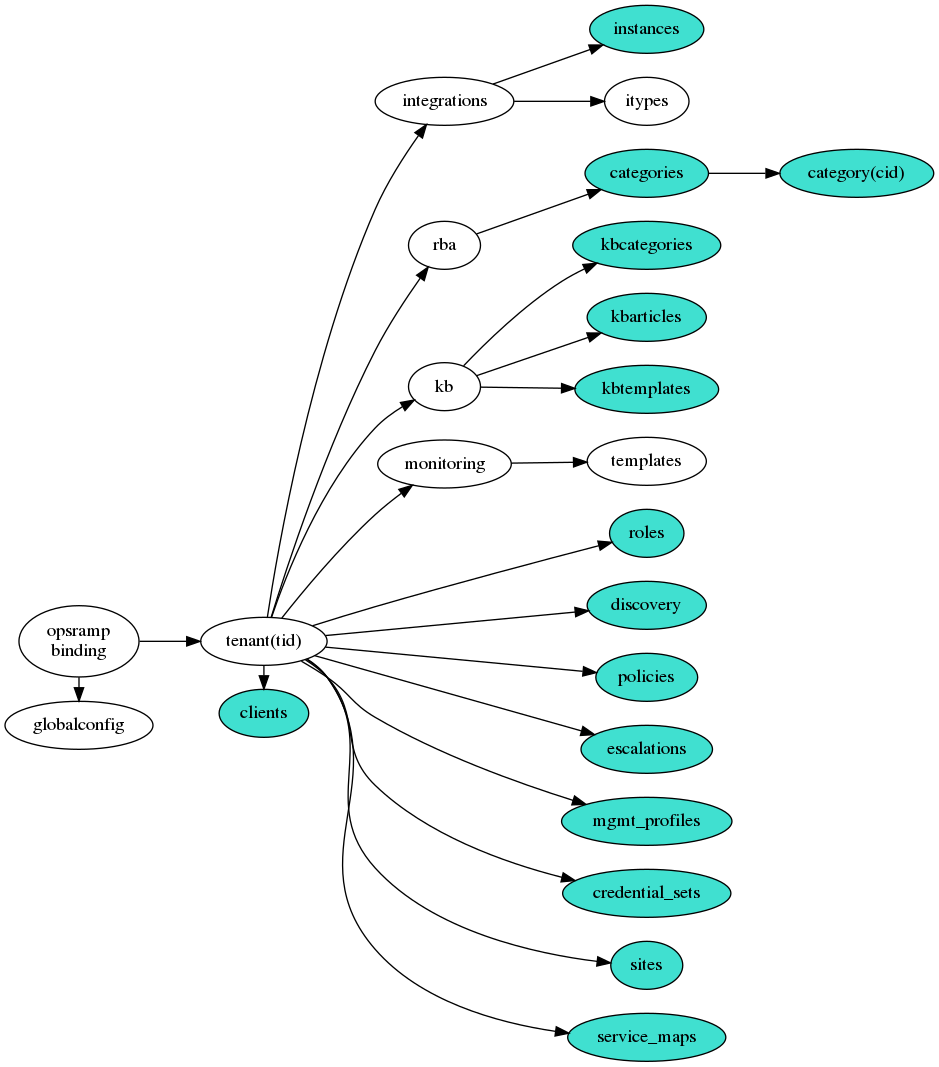
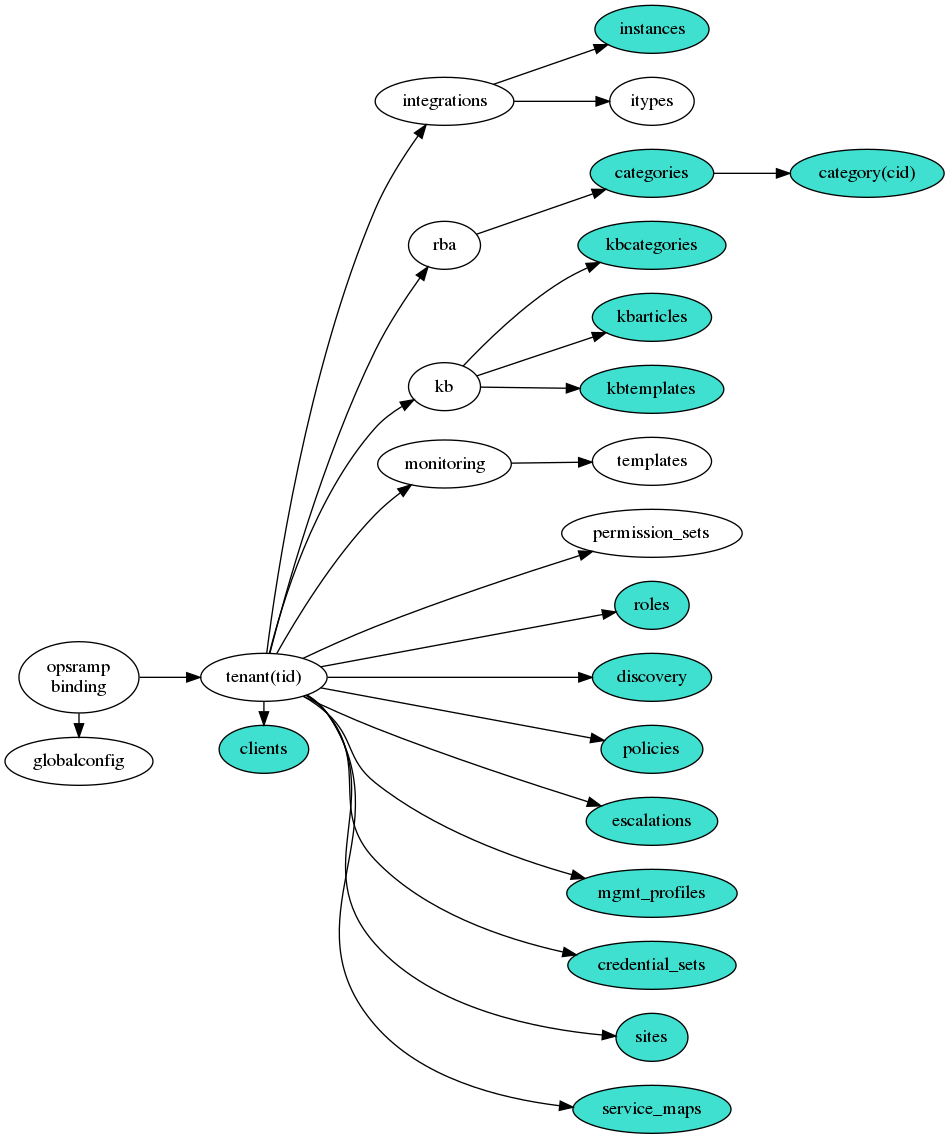
Add permission sets to the standard examples
Also update the README and class diagram. Those steps were missed when
permission sets were added.

diff --git a/opsramp/examples.py b/opsramp/examples.py
@@ -2,7 +2,7 @@
 #
 # Exercise the opsramp module as an illustration of how to use it.
 #
-# (c) Copyright 2019 Hewlett Packard Enterprise Development LP
+# (c) Copyright 2019-2020 Hewlett Packard Enterprise Development LP
 #
 # Licensed under the Apache License, Version 2.0 (the "License");
 # you may not use this file except in compliance with the License.
@@ -48,6 +48,12 @@ def main():
 
     # Focus on a specific tenant.
     tenant = ormp.tenant(TENANT_ID)
+
+    print('List the RBAC permission sets on tenant', TENANT_ID)
+    group = tenant.permission_sets()
+    found = group.search()
+    print(found['totalResults'], 'permission_sets')
+    print(yaml.dump(found['results'], default_flow_style=False))
 
     print('List the RBAC roles on tenant', TENANT_ID)
     group = tenant.roles()

diff --git a/README.md b/README.md
@@ -122,6 +122,7 @@ import opsramp.tenant
   this is only valid for MSP-level tenants because an OpsRamp client cannot contain other clients._
   - discovery() -> returns a Discovery object representing all OpsRamp Discovery profiles for this Tenant.
   - credential\_sets() -> returns a Credential set object representing all OpsRamp Discovery profiles for this Tenant.
+  - permission\_sets() -> returns a PermissionSets object representing all OpsRamp RBAC permission sets for this Tenant.
   - roles() -> returns a Roles object representing all OpsRamp RBAC roles for this Tenant.
   - escalations() -> returns an Escalations object representing the Alert Escalation Policies of this Tenant.
   - mgmt\_profiles() -> returns a Profiles object representing the Management Profiles of this Tenant. These are used
@@ -141,6 +142,9 @@ import opsramp.service\_maps
   - get(uuid=None, minimal=False) -> returns a list of dicts, each one containing details for one service map.
 
 import opsramp.roles
+
+- class PermissionSets() _the RBAC permission sets that are defined for this specific Tenant_
+  - search(pattern) -> returns a list of dicts, each containing a single description.
 
 - class Roles() _the subtree of RBAC roles that are defined for this specific Tenant_
   - create(definition) -> Creates a new RBAC role in this Tenant. "definition" is a Python dict.
